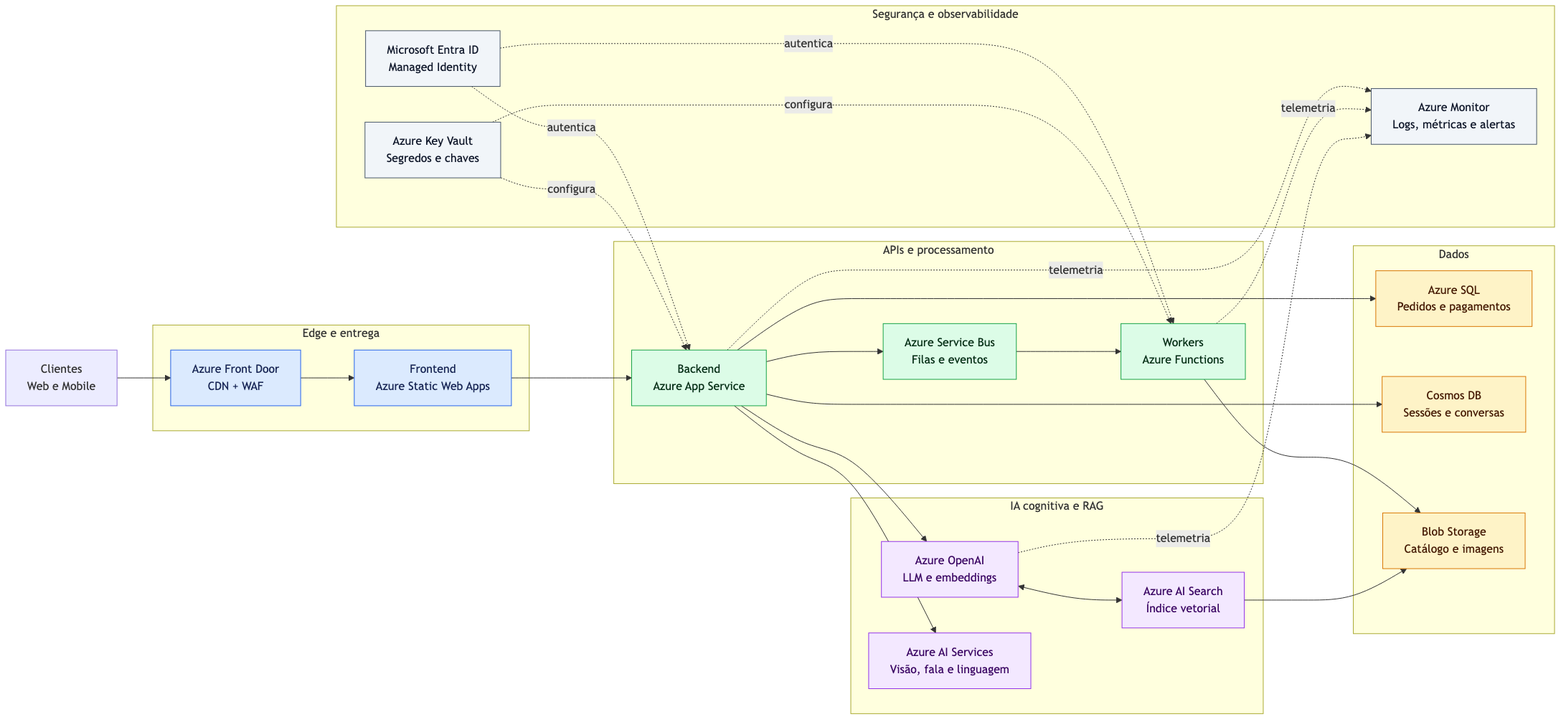
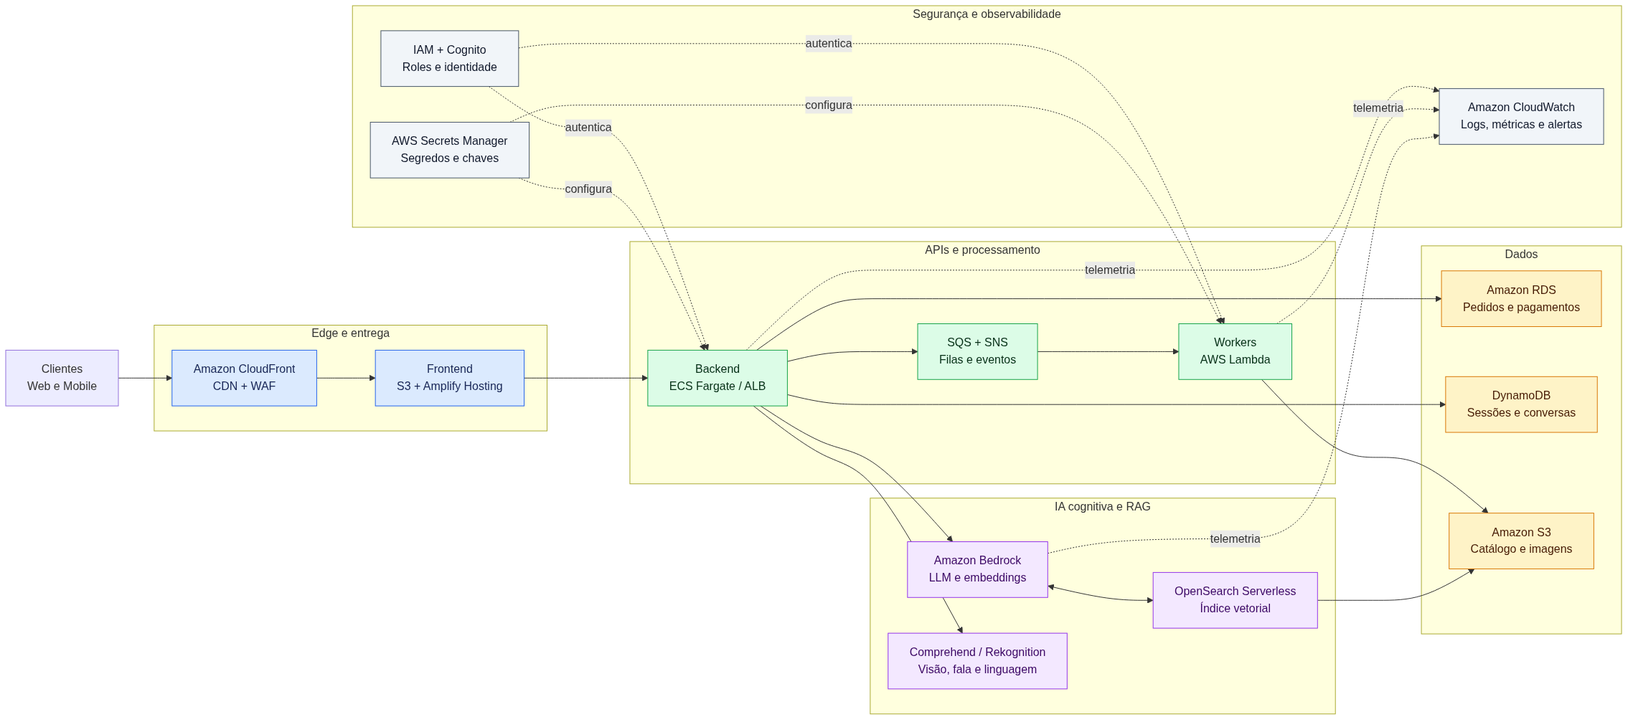
docs(cloud-cognitive): fechar review da Aula 1 com fontes e AWS-first
Reescreve 1.1–2.3 e multi-cloud com cites (Shared Responsibility, Azure
built-in roles, Sam Newman, cases iFood/Rufus/Natura/MeLi), 6Rs sem
gabarito, prova Decimal do SLA, pivot QC para AWS e diagramas atualizados.

diff --git a/cloud-cognitive/aula01/scripts/check_calcs.py b/cloud-cognitive/aula01/scripts/check_calcs.py
@@ -1,12 +1,16 @@
 #!/usr/bin/env python3
-"""Confere os cálculos publicados em entrega-grupo-aula01.md."""
+"""Confere os cálculos publicados em entrega-grupo-aula01.md.
+
+Prova determinística (Decimal, sem float solto) para SLA 1.3, custos 2.2,
+egress 3.3 e contagem de linhas Terraform/Bicep.
+"""
 
 from __future__ import annotations
 
-from dataclasses import dataclass
-from decimal import Decimal, ROUND_HALF_UP
-from pathlib import Path
 import sys
+from dataclasses import dataclass
+from decimal import ROUND_HALF_UP, Decimal
+from pathlib import Path
 
 AULA01 = Path(__file__).resolve().parents[1]
 ENTREGA = AULA01 / "entrega-grupo-aula01.md"
@@ -37,9 +41,13 @@ class Check:
 
 
 def check_sla() -> None:
-    hours_year = Decimal("8760")
+    """Prova determinística do Exercício 1.3 (ano comercial 8760 h)."""
+    hours_year = Decimal("8760")  # 365 * 24
     sla_999 = Decimal("0.999")
     hourly_loss = Decimal("50000")
+
+    print("=== prova SLA 1.3 (Decimal) ===")
+    print(f"premissa: hours_year = 365 * 24 = {hours_year}")
 
     downtime_h = hours_year * (Decimal("1") - sla_999)
     almost("1.3a downtime horas", downtime_h, Decimal("8.76"))
@@ -61,6 +69,7 @@ def check_sla() -> None:
     almost("1.3 99.99% horas", sla_9999_downtime_h, Decimal("0.876"))
     almost("1.3 99.99% minutos", sla_9999_downtime_h * 60, Decimal("52.56"))
     almost("1.3 99.99% impacto", sla_9999_downtime_h * hourly_loss, Decimal("43800"))
+    print("=== fim prova SLA ===")
 
 
 def check_costs() -> None:

diff --git a/cloud-cognitive/aula01/entrega-grupo-aula01.md b/cloud-cognitive/aula01/entrega-grupo-aula01.md
@@ -34,27 +34,29 @@
 | AWS Lambda | FaaS | Irmão do Azure Functions / Cloud Functions: unit of billing = invocação × duração × memória, não VM ociosa. Mais abstraído que PaaS clássico — host/OS somem; você ainda responde por runtime choice, cold start, concurrency, IAM da function, segredos e o código do handler. |
 | Azure SQL Database | PaaS | App Service do mundo de banco: sobe o schema/query, some o patch do motor (RDS / Cloud SQL no outro lado). Infra + plataforma no provedor; dados, criptografia e permissões no cliente. SKU muda o ticket — Oracle gerenciado (ex.: Azure Database for Oracle / RDS Oracle) costuma sair bem acima de SQL Server/PostgreSQL na mesma faixa. |
 | Salesforce CRM | SaaS | Mesmo jogo do Dynamics 365 / HubSpot: serviço totalmente gerenciado. Você não opera infra; paga licença/seat, acessos e add-ons. Ainda manda em quem entra e no que faz com o dado. |
-| Google Kubernetes Engine (GKE) | PaaS/IaaS híbrido | Como AKS e EKS: control plane do provedor, pods e YAML do time. Fronteira típica "of/in the cloud" no meio do stack. |
-| Azure Blob Storage | PaaS | S3 / GCS com outro nome: objeto gerenciado, ACL e lifecycle no cliente. AWS chama isso de serviço abstraído — *of the cloud* no storage engine; *in the cloud* em classificação, encryption e IAM. |
+| Google Kubernetes Engine (GKE) | PaaS/IaaS híbrido | Kubernetes gerenciado (AKS/EKS no mesmo jogo): o time ganha liberdade de pods, Deployments e YAML sem operar o baixo nível — control plane, etcd, upgrades do master e patch do nó de controle ficam com o provedor. Você ainda cuida de workloads, RBAC do cluster, network policies e o que roda dentro do pod. |
+| Azure Blob Storage | PaaS | Pense Google Drive / OneDrive para armazenar arquivo — só que com API de objeto, lifecycle, versioning, SAS/ACL e integração com CDN/IA. Equivalente a S3/GCS: motor gerenciado (*of the cloud*); classificação, encryption e IAM (*in the cloud*) no cliente. Ver [Shared Responsibility Model](https://aws.amazon.com/compliance/shared-responsibility-model/) (serviços abstraídos). |
 | Azure OpenAI Service | SaaS / API-as-a-Service | Bedrock e Vertex AI sem você comprar GPU: chama modelo, não opera cluster. Patch de GPU some; prompt, PII no payload e keys/Managed Identity continuam no seu lado. |
 
-**Responsabilidade compartilhada (lente AWS, válido nos três):** a AWS formaliza o split como *Security of the Cloud* (provedor) vs *Security in the Cloud* (cliente). O quanto você "herda" de tarefa sobe ou desce conforme o modelo — IaaS (VM/EC2) exige quase tudo acima do hipervisor; PaaS/FaaS/serviços abstraídos (S3, DynamoDB, Blob, SQL gerenciado) empurram OS/plataforma pro provedor; SaaS deixa só dados, identidades e config. Azure e GCP desenham a mesma escada; a AWS só batizou o meme. Em qualquer modelo, **dado e identidade não saem do cliente**.
+**Responsabilidade compartilhada (lente AWS, válido nos três):** a AWS formaliza o split como *Security of the Cloud* (provedor) vs *Security in the Cloud* (cliente) no [Shared Responsibility Model](https://aws.amazon.com/compliance/shared-responsibility-model/). O quanto você "herda" de tarefa sobe ou desce conforme o modelo — IaaS (VM/EC2) exige quase tudo acima do hipervisor; PaaS/FaaS/serviços abstraídos (S3, DynamoDB, Blob, SQL gerenciado) empurram OS/plataforma pro provedor; SaaS deixa só dados, identidades e config. Azure e GCP desenham a mesma escada; a AWS só batizou o meme. Em qualquer modelo, **dado e identidade não saem do cliente**.
 
 ### Exercício 1.2 — Os 6 Rs
 
-**Cenário A:** **Rehost (Lift & Shift)**. Legado de 2008, um mantenedor, zero doc. Empurra a VM pro IaaS (Azure VM / EC2 / GCE) e ganha elasticidade sem reescrever.
+Respostas originais do grupo (não copiamos o gabarito da disciplina). Cada R ganha uma analogia com produto/serviço de founders brasileiros.
 
-**Cenário B:** **Retire**. Menos de 5 usuários/mês. Arquiva em Blob frio / S3 Glacier / Coldline e mata o ERP.
+**Cenário A — Rehost (Lift & Shift).** Rastreamento de frota em servidor físico, código 2008, um mantenedor. Empurra a VM pro IaaS (EC2 / Azure VM / GCE) e ganha elasticidade sem reescrever. Analogia BR: early-stage de logísticas tipo **Loggi** / **99** — primeiro tira o box do DC, depois moderniza. Reescrever sem doc é o caminho mais caro de falhar.
 
-**Cenário C:** **Refactor**. Quebrar monolito em microserviços + K8s + eventos é reescrita estrutural, não maquiagem.
+**Cenário B — Retire.** ERP de RH com <5 usuários/mês. Arquiva em S3 Glacier / Blob frio / Coldline e desliga. Analogia BR: startup matando módulo interno morto (estilo **Nubank** / **Creditas** cortando produto que não puxa métrica) — migrar o que ninguém abre só gera fatura e risco.
 
-**Cenário D:** **Repurchase**. SaaS cobre ~90% do CRM com TCO menor: troca o interno por Salesforce / Dynamics / HubSpot.
+**Cenário C — Refactor.** API de pagamentos monolítica → microserviços + K8s + eventos. Aqui o negócio *pediu* reescrita estrutural. Analogia BR: jornada de **iFood** / **Stone** saindo de monolito para domínio (pedido, antifraude, settlement) com event-driven — caro, mas o R certo quando o monolito trava o roadmap.
 
-**Cenário E:** **Retain**. BACEN segura o mainframe on-prem; nuvem só onde a auditoria deixar.
+**Cenário D — Repurchase.** CRM interno de 15 anos; SaaS cobre ~90% com TCO menor → Salesforce / Dynamics / HubSpot. Analogia BR: founders trocando CRM caseiro por **Pipedrive** / Salesforce (comum em **QuintoAndar**, **Loft**, SaaS B2B) — compra o produto, não o fardo de manter o fork eterno.
+
+**Cenário E — Retain.** Mainframe on-prem por exigência BACEN. Nuvem só onde a auditoria deixar. Analogia BR: core bancário tradicional vs **Nubank** cloud-native — regulação/compliance manda; Retain não é covardia, é restrição externa.
 
 ### Exercício 1.3 — SLA
 
-Premissa: ano comercial de 8.760 horas.
+Premissa: ano comercial de **8.760 horas** (`365 × 24`). Prova determinística em [`scripts/check_calcs.py`](scripts/check_calcs.py) (`python3 scripts/check_calcs.py` — `Decimal`, sem float solto).
 
 a) Downtime anual com SLA 99,9%:
 
@@ -68,49 +70,75 @@ c) Para impacto < R$ 50.000/ano:
 
 Downtime máximo = `50.000 / 50.000 = 1 hora/ano`.
 
-`1 / 8.760 ≈ 0,0114%` de downtime → disponibilidade mínima `99,9886%`.
+`1 / 8.760 ≈ 0,011415525114%` de downtime → disponibilidade mínima `99,988584474886%`.
 
-Na prática, o SLA comercial que fecha a conta é **99,99%** (~52,56 min/ano; impacto ≈ R$ 43.800).
+Na prática, o SLA comercial que fecha a conta é **99,99%** (`8.760 × 0,0001 = 0,876 h` ≈ 52,56 min/ano; impacto = `0,876 × 50.000 = R$ 43.800`).
+
+**Prova (saída do script, trecho SLA):**
+
+```text
+=== prova SLA 1.3 (Decimal) ===
+premissa: hours_year = 365 * 24 = 8760
+ok  1.3a downtime horas: 8.760
+ok  1.3a downtime minutos: 525.600
+ok  1.3b impacto anual: 438000.000
+ok  1.3c downtime máximo: 1
+ok  1.3c % downtime: 0.01141552511415525114155251142
+ok  1.3c disponibilidade: 99.98858447488584474885844749
+ok  1.3 99.99% horas: 0.8760
+ok  1.3 99.99% minutos: 52.5600
+ok  1.3 99.99% impacto: 43800.0000
+=== fim prova SLA ===
+```
 
 ### Exercício 1.4 — RBAC
 
-| Perfil | Role Azure | Justificativa |
-|--------|------------|---------------|
-| Agente de IA que LÊ produtos do Storage | Storage Blob Data Reader | Equivalente a `s3:GetObject` / `storage.objects.get`: lê o plano de dados, não mexe na conta. |
-| Engenheiro de dados que CARREGA catálogos | Storage Blob Data Contributor | Como `s3:PutObject` sem Account Owner: sobe blob, não herda billing da subscription. |
-| Time de FinOps que VÊ custos | Cost Management Reader | Espelho do Cost Explorer read-only / Billing Viewer: enxerga fatura, não altera SKU. |
-| Auditor externo que LÊ a assinatura | Reader (escopo subscription) | `ViewOnlyAccess` / `roles/viewer` no escopo da conta: olha config, não muta. |
-| CI/CD que provisiona via Terraform | Contributor no Resource Group + Service Principal dedicado | Igual pipeline com role scoped no AWS account/project GCP: sobe infra no RG, nunca `Owner` da subscription. |
+Referência oficial: [Azure built-in roles](https://learn.microsoft.com/en-us/azure/role-based-access-control/built-in-roles) (e detalhe de storage em [built-in roles — Storage](https://learn.microsoft.com/en-us/azure/role-based-access-control/built-in-roles/storage)). Analogias AWS/GCP só pra leitura cruzada.
 
-Least privilege: escopo no RG, não na subscription.
+| Perfil | Role Azure (built-in) | Justificativa |
+|--------|----------------------|---------------|
+| Agente de IA que LÊ produtos do Storage | **Storage Blob Data Reader** (`2a2b9908-6ea1-4ae2-8e65-a410df84e7d1`) | Role de *data plane*: `…/blobs/read` — lista/lê blob, não administra a conta. Espelho mental: `s3:GetObject` / `storage.objects.get`. |
+| Engenheiro de dados que CARREGA catálogos | **Storage Blob Data Contributor** (`ba92f5b4-2d11-453d-a403-e96b0029c9fe`) | Read/write/delete no plano de dados; sem Owner da subscription. Espelho: `s3:PutObject` sem Account Owner. |
+| Time de FinOps que VÊ custos | **Cost Management Reader** | View-only de Cost Analysis / forecast / recommendations ([Cost Management scopes](https://learn.microsoft.com/en-us/azure/cost-management-billing/costs/understand-work-scopes)). Espelho: Cost Explorer read-only. |
+| Auditor externo que LÊ a assinatura | **Reader** (escopo *subscription*) | Control plane read-only em todos os recursos da assinatura; sem mutação. Espelho: `ViewOnlyAccess` / `roles/viewer`. |
+| CI/CD que provisiona via Terraform | **Contributor** no *Resource Group* + Service Principal dedicado | Sobe/altera recursos no RG; **nunca** `Owner`/`Contributor` da subscription. Espelho: role scoped na AWS account / GCP project. |
+
+Least privilege: escopo no RG (ou no storage account), não na subscription.
 
 ## Nível 2 — Respostas + implementação
 
 ### Exercício 2.1 — Arquitetura da Quantum Commerce
 
-**Provedor principal:** Azure. Não porque "é o da disciplina", e sim porque o pacote agentic fecha num lugar só: Entra ID + Managed Identity (o que no AWS vira Cognito/IAM Roles e no GCP vira Workload Identity), Azure OpenAI + AI Search (Bedrock+OpenSearch / Vertex+Vector Search), App Service/Functions no lugar de ECS+Lambda ou Cloud Run+Functions. Menos cola entre provedores no caminho crítico do agente.
+**Provedor principal: AWS.** Defesa com cases reais (não "porque a disciplina é Azure"):
 
-**Camadas:**
+1. **[iFood × Bedrock/SageMaker](https://aws.amazon.com/solutions/case-studies/ifood-bedrock/)** — marketplace BR com 80M+ pedidos/mês; personalização e antifraude em 100+ modelos; PoC do garçom virtual **Garçon** (RAG + Claude/Titan no Bedrock). Prova que o caminho agentic de e-commerce conversacional já roda em produção/PoC sério na AWS LatAm.
+2. **[Amazon Rufus × Bedrock](https://aws.amazon.com/blogs/machine-learning/how-rufus-scales-conversational-shopping-experiences-to-millions-of-amazon-customers-with-amazon-bedrock/)** — assistente de compra conversacional em escala; tool calling + RAG sobre catálogo/pedido. Blueprint direto pra QC.
+3. **[Natura × OpenSearch + Bedrock](https://aws.amazon.com/solutions/case-studies/natura-ia-generativa/)** — busca semântica/vetorial de catálogo em produção (BR). Camada de retrieval que o agente precisa antes de gerar.
+4. **[Mercado Libre × Bedrock](https://aws.amazon.com/solutions/case-studies/mercado-libre-mutt-data/)** — gen AI no catálogo/retail media (S3 + DynamoDB + Bedrock). Escala LatAm de enriquecimento de SKU.
 
-1. **Edge/entrega** — Front Door/CDN + WAF e frontend estático (CloudFront / Cloud CDN do outro lado).
-2. **APIs e processamento** — App Service (API síncrona) + Service Bus + Functions (assíncrono).
-3. **IA cognitiva / RAG** — Azure OpenAI, AI Search (vetorial) e AI Services (visão/fala/linguagem).
-4. **Dados** — SQL (transacional), Cosmos DB (sessões/conversas), Blob (catálogo/imagens).
-5. **Plataforma** — Entra ID, Key Vault e Azure Monitor.
+Pacote agentic na AWS fecha sem cola: **IAM Roles + Cognito**, **Bedrock + OpenSearch Serverless**, **ECS Fargate + Lambda + SQS/SNS**, **S3 + RDS + DynamoDB**, **CloudFront + WAF**, **CloudWatch + Secrets Manager**. Azure/GCP entram como alternativa ou DR — não no caminho crítico do agente.
+
+**Camadas (AWS):**
+
+1. **Edge/entrega** — CloudFront + WAF + frontend estático (S3 / Amplify).
+2. **APIs e processamento** — ECS Fargate (API síncrona) + SQS/SNS + Lambda (assíncrono).
+3. **IA cognitiva / RAG** — Bedrock (LLM/embeddings), OpenSearch Serverless (vetorial), Comprehend/Rekognition.
+4. **Dados** — RDS (transacional), DynamoDB (sessões/conversas), S3 (catálogo/imagens).
+5. **Plataforma** — IAM/Cognito, Secrets Manager, CloudWatch.
 
 Diagrama: [`diagramas/arquitetura-qc-aula01.png`](diagramas/arquitetura-qc-aula01.png) (fonte Mermaid: [`diagramas/arquitetura-qc-aula01.mmd`](diagramas/arquitetura-qc-aula01.mmd)).
 
-| Categoria | Serviço Azure | Alternativa AWS | Alternativa GCP |
-|-----------|---------------|-----------------|-----------------|
-| Compute (backend) | Azure App Service | Amazon ECS/Fargate ou Elastic Beanstalk | Cloud Run |
-| Storage (catálogo, imagens) | Azure Blob Storage | Amazon S3 | Cloud Storage |
-| Banco relacional | Azure SQL Database | Amazon RDS | Cloud SQL |
-| Banco NoSQL | Azure Cosmos DB | Amazon DynamoDB | Firestore / Bigtable |
-| Vector Database | Azure AI Search | Amazon OpenSearch Serverless / Aurora pgvector | Vertex AI Vector Search |
-| Serviços de IA cognitivos | Azure OpenAI + AI Services | Amazon Bedrock + Amazon Comprehend/Rekognition | Vertex AI + Cloud Vision/Speech |
-| CDN | Azure Front Door / CDN | Amazon CloudFront | Cloud CDN |
-| Mensageria/Filas | Azure Service Bus | Amazon SQS/SNS | Pub/Sub |
-| Observabilidade | Azure Monitor | Amazon CloudWatch | Cloud Monitoring/Logging |
+| Categoria | Escolha AWS (primário) | Alternativa Azure | Alternativa GCP |
+|-----------|------------------------|-------------------|-----------------|
+| Compute (backend) | Amazon ECS/Fargate (+ Lambda workers) | Azure App Service / Container Apps | Cloud Run |
+| Storage (catálogo, imagens) | Amazon S3 | Azure Blob Storage | Cloud Storage |
+| Banco relacional | Amazon RDS | Azure SQL Database | Cloud SQL |
+| Banco NoSQL | Amazon DynamoDB | Azure Cosmos DB | Firestore / Bigtable |
+| Vector Database | Amazon OpenSearch Serverless / Aurora pgvector | Azure AI Search | Vertex AI Vector Search |
+| Serviços de IA cognitivos | Amazon Bedrock + Comprehend/Rekognition | Azure OpenAI + AI Services | Vertex AI + Cloud Vision/Speech |
+| CDN | Amazon CloudFront | Azure Front Door / CDN | Cloud CDN |
+| Mensageria/Filas | Amazon SQS/SNS | Azure Service Bus | Pub/Sub |
+| Observabilidade | Amazon CloudWatch | Azure Monitor | Cloud Monitoring/Logging |
 
 ### Exercício 2.2 — Comparativo de custos
 
@@ -139,18 +167,28 @@ a) **GCP ganhou** neste recorte; AWS no meio. O buraco Azure↔GCP (~US$ 148/mê
 
 b) **RI / Savings Plans / CUDs de 1 ano** no Azure cortam compute ~30–40%. Aproxima VM, **não apaga** o premium do SQL GP. Commit no AWS/GCP com banco Azure substituído pode inverter o ranking.
 
-c) Em projeto agentic, preço bruto sem FinOps de dados é mentira parcial. O que decide: região do modelo (Azure OpenAI vs Bedrock vs Vertex), identidade (Managed Identity vs IAM Role vs Workload Identity), vetor (AI Search vs OpenSearch vs Vertex Vector), latência pro Brasil e egress.
+c) Em projeto agentic, preço bruto sem FinOps de dados é mentira parcial. O que decide: região do modelo (Bedrock vs Azure OpenAI vs Vertex), identidade (IAM Role vs Managed Identity vs Workload Identity), vetor (OpenSearch vs AI Search vs Vertex Vector), latência pro Brasil e egress. Com a QC em **AWS**, Savings Plans + Graviton no compute e RDS right-size fecham o meio do ranking sem pagar o premium do SQL GP Azure.
 
 ### Exercício 2.3 — Estratégia de migração
 
-a) **Workload:** monolito on-prem de e-commerce (catálogo + pedidos + busca), pico de campanha, assistente conversacional pedindo passagem.
+Base conceitual: [Sam Newman — Monolith Decomposition Patterns](https://samnewman.io/talks/monolith-decomposition-patterns/) ([InfoQ](https://www.infoq.com/presentations/microservices-principles-patterns/), [Strangler Fig](https://samnewman.io/patterns/refactoring/strangler-fig-application/), [Branch by Abstraction](https://samnewman.io/patterns/architectural/branch-by-abstraction/)). Evitar big-bang rewrite.
 
-b) **R: Replatform** (Refactor só no canal de IA).  
-   Custa mais que lift-and-shift puro (EC2/Azure VM/GCE), menos que rewrite. App vai pra App Service/Container Apps (ou ECS/Cloud Run no outro mundo); dados pra Azure SQL/Blob. Em semanas/meses, não anos.
+a) **Workload:** monolito on-prem de e-commerce (catálogo + pedidos + busca), pico de campanha, assistente conversacional pedindo passagem — o próprio contexto QC / founders de marketplace BR.
 
-c) **Serviços:** App Service ou Container Apps, Azure SQL, Blob, AI Search, Azure OpenAI, Front Door, Monitor. Dev/homolog enxuto: **US$ 250–450**/mês, SQL e tokens mandam no ticket.
+b) **R: Replatform** no core (monolito → containers gerenciados), com **Refactor incremental** só nos bounded contexts que doem (busca + canal de IA). Custa mais que lift-and-shift puro (EC2), menos que rewrite. Prazo: semanas/meses, não anos.
 
-d) **Obstáculo real:** PII/pagamento + medo de mexer no monolito. Resposta: tokenization, Private Endpoints (o VPC endpoint / Private Service Connect do Azure), catálogo primeiro com feature flags.
+   Plano com patterns do Newman:
+
+   | Fatia | Pattern | Como na QC |
+   |-------|---------|------------|
+   | Pedidos / checkout (HTTP na borda) | **Strangler Fig** + **Parallel Run** | API Gateway / ALB na frente do monolito; rotas `/orders` vão pro Order Service; dual-run compara totais antes do cutover |
+   | Catálogo (páginas/widgets) | **UI Composition** + Strangler | Widget de product detail/list vem do Catalog Service; resto da storefront ainda no monolito |
+   | Busca / indexação interna | **Branch by Abstraction** ou **CDC** | Abstrai `SearchIndexer`; se o código for intocável, CDC na tabela `products` alimenta OpenSearch |
+   | Assistente conversacional | **UI Composition** (chat widget) + **Decorating Collaborator** | Chat novo chama Bedrock/RAG; no sucesso do checkout, decorator dispara follow-up sem reescrever o monolito |
+
+c) **Serviços AWS:** CloudFront, ECS Fargate (ou App Runner), Lambda, SQS/SNS, RDS, S3, OpenSearch Serverless, Bedrock, Cognito/IAM, Secrets Manager, CloudWatch. Dev/homolog enxuto: **US$ 250–450**/mês — RDS e tokens Bedrock mandam no ticket. Azure/GCP equivalentes na tabela do 2.1.
+
+d) **Obstáculo real:** PII/pagamento + medo de mexer no monolito. Resposta Newman-compatível: deployment ≠ release (feature flags / dark launch), Parallel Run no pricing/checkout, PrivateLink/VPC endpoints, tokenization, catálogo primeiro via Strangler.
 
 ## Nível 3 — Bônus
 
@@ -198,18 +236,18 @@ Docs: [`bicep/README.md`](bicep/README.md). Evidências: [`evidencias/bicep.md`]
 
 Diagrama: [`diagramas/arquitetura-qc-multicloud.png`](diagramas/arquitetura-qc-multicloud.png).
 
-a) **Azure + AWS:**
+a) **AWS + Azure:**
 
-- **Azure (agente):** frontend, APIs, OpenAI, AI Search, Cosmos/SQL, Entra ID.
-- **AWS (mídia/DR):** S3 + CloudFront no catálogo de imagem (onde a AWS ainda é o "CDN barato clássico"); RDS replica ou backup cross-cloud pro failover.
-- Por quê essa divisão: o caminho do agente fica num provedor (menos hop de identidade). Mídia e DR vão pra quem já tem músculo de egress/CDN. GCP entraria no jogo se o ganho fosse BigQuery/Vertex, não neste recorte.
+- **AWS (primário — agente):** CloudFront, ECS/Lambda, Bedrock, OpenSearch, RDS/DynamoDB, S3, IAM/Cognito (ver cases iFood/Rufus/Natura no 2.1).
+- **Azure (secundário — analytics/DR):** Blob espelho / backup, Front Door em região secundária, SQL/Blob pra failover frio.
+- Por quê essa divisão: caminho do agente fica num provedor (menos hop de identidade). DR e espelho frio vão pro segundo cloud sem colocar latência no p95 do chat. GCP entraria se o ganho fosse BigQuery/Vertex, não neste recorte.
 
 b) **Desafios:**
 
 1. Latência cross-cloud sobe o p95 do assistente.
-2. Identidade: Entra ID ↔ IAM via OIDC (sem isso vira senha espalhada).
+2. Identidade: Cognito/IAM ↔ Entra ID via OIDC (sem isso vira senha espalhada).
 3. Egress de 10 TB/mês (conta abaixo).
-4. Trace único: Azure Monitor ↔ CloudWatch (ou OpenTelemetry no meio).
+4. Trace único: CloudWatch ↔ Azure Monitor (ou OpenTelemetry no meio).
 
 c) **Terraform vs Pulumi:**
 
@@ -233,26 +271,35 @@ Routing Preference (ISP): **US$ 0,12 / GB** → **≈ US$ 1.188 / mês**.
 
 AWS DTO us-east-1 (~US$ 0,09/GB após 100 GB free): ~US$ 891. Ainda dói; dói menos que sair do Brazil South no Premium Network. GCP egress intercontinental na mesma ordem: o problema não é "Azure caro", é "dado atravessando oceano".
 
-**Azure Arc / AWS Outposts:** Arc = governança Azure em VM/cluster fora da Azure (tipo Anthos no GCP, mas do lado Microsoft). Outposts = rack AWS no DC. Na QC, Arc unifica policy de agente híbrido; Outposts só se loja/DC exigir locality de verdade.
+**Azure Arc / AWS Outposts:** Arc = governança Azure em VM/cluster fora da Azure (tipo Anthos no GCP, mas do lado Microsoft). Outposts = rack AWS no DC. Na QC (AWS-first), Outposts só se loja/DC exigir locality; Arc só se o DR Azure precisar de policy unificada.
 
 ## Reflexão coletiva
 
 Cloud sem IaC não se reproduz. Mudar o NSG e ver o `plan` sem recriar a VM foi o momento "ok, isso serve em produção": mudança cirúrgica, auditável. No Azure for Students, policy e capacidade pesaram mais que elegância de HCL. Acontece igual com AZ esgotada na AWS ou quota de GPU no GCP.
 
-Agente com `Storage Blob Data Reader` + OpenAI via Managed Identity só é seguro se RBAC e infra forem git. Ambiente "quase igual" vira incidente às três da manhã.
+Agente com least privilege (`Storage Blob Data Reader` no exercício Azure; na QC AWS vira IAM role só com `s3:GetObject`) + Bedrock via IAM Role só é seguro se RBAC e infra forem git. Ambiente "quase igual" vira incidente às três da manhã.
 
-Se recomeçássemos a QC: Private Endpoints + Key Vault no dia 1, Bastion no lugar de SSH público, banco escolhido com FinOps (SQL GP comeu o comparativo). Multi-cloud só com motivo (DR, mídia). Egress Brazil South → us-east-1 de 10 TB (~US$ 1,2k–1,8k) apaga economia de lock-in antes do slide de arquitetura esfriar.
+Se recomeçássemos a QC: AWS-first (Bedrock + OpenSearch) com cases iFood/Rufus/Natura no slide 1, PrivateLink + Secrets Manager no dia 1, Bastion/SSM no lugar de SSH público, Strangler Fig no checkout antes de sonhar com rewrite. Multi-cloud só com motivo (DR). Egress Brazil South → us-east-1 de 10 TB (~US$ 1,2k–1,8k) apaga economia de lock-in antes do slide de arquitetura esfriar.
+
+## Referências (fontes usadas nesta entrega)
+
+- AWS — [Shared Responsibility Model](https://aws.amazon.com/compliance/shared-responsibility-model/)
+- Microsoft — [Azure built-in roles](https://learn.microsoft.com/en-us/azure/role-based-access-control/built-in-roles)
+- Sam Newman — [Monolith Decomposition Patterns](https://samnewman.io/talks/monolith-decomposition-patterns/) · [InfoQ](https://www.infoq.com/presentations/microservices-principles-patterns/)
+- AWS Cases — [iFood](https://aws.amazon.com/solutions/case-studies/ifood-bedrock/) · [Rufus/Bedrock](https://aws.amazon.com/blogs/machine-learning/how-rufus-scales-conversational-shopping-experiences-to-millions-of-amazon-customers-with-amazon-bedrock/) · [Natura](https://aws.amazon.com/solutions/case-studies/natura-ia-generativa/) · [Mercado Libre](https://aws.amazon.com/solutions/case-studies/mercado-libre-mutt-data/)
+- Azure Bandwidth — [Pricing](https://azure.microsoft.com/pricing/details/bandwidth/)
 
 ## Artefatos do ZIP
 
-- Diagrama QC: `diagramas/arquitetura-qc-aula01.png`
+- Diagrama QC (AWS): `diagramas/arquitetura-qc-aula01.png`
 - Fonte Mermaid QC: `diagramas/arquitetura-qc-aula01.mmd`
-- Diagrama multi-cloud: `diagramas/arquitetura-qc-multicloud.png`
+- Diagrama multi-cloud (AWS+Azure): `diagramas/arquitetura-qc-multicloud.png`
 - Fonte Mermaid multi-cloud: `diagramas/arquitetura-qc-multicloud.mmd`
 - Código Terraform: `terraform/`
 - Código Bicep: `bicep/`
 - Página Nginx (brand Group One): `nginx/index.html`
 - Print Nginx: `evidencias/nginx-group-one.png`
 - Validação SSH/HTTP: `scripts/validate-nginx.sh`
+- Prova SLA/custos/egress: `scripts/check_calcs.py`
 - Evidências Terraform: `evidencias/provisionamento.md`
 - Evidências Bicep: `evidencias/bicep.md`

diff --git a/cloud-cognitive/aula01/diagramas/README.md b/cloud-cognitive/aula01/diagramas/README.md
@@ -2,8 +2,8 @@
 
 | Arquivo | Conteúdo |
 |---------|----------|
-| `arquitetura-qc-aula01.mmd` / `.png` | Arquitetura Azure da Quantum Commerce (Exercício 2.1) |
-| `arquitetura-qc-multicloud.mmd` / `.png` | Visão multi-cloud Azure+AWS (Exercício 3.3) |
+| `arquitetura-qc-aula01.mmd` / `.png` | Arquitetura AWS da Quantum Commerce (Exercício 2.1) |
+| `arquitetura-qc-multicloud.mmd` / `.png` | Visão multi-cloud AWS+Azure (Exercício 3.3) |
 
 Render:
 
